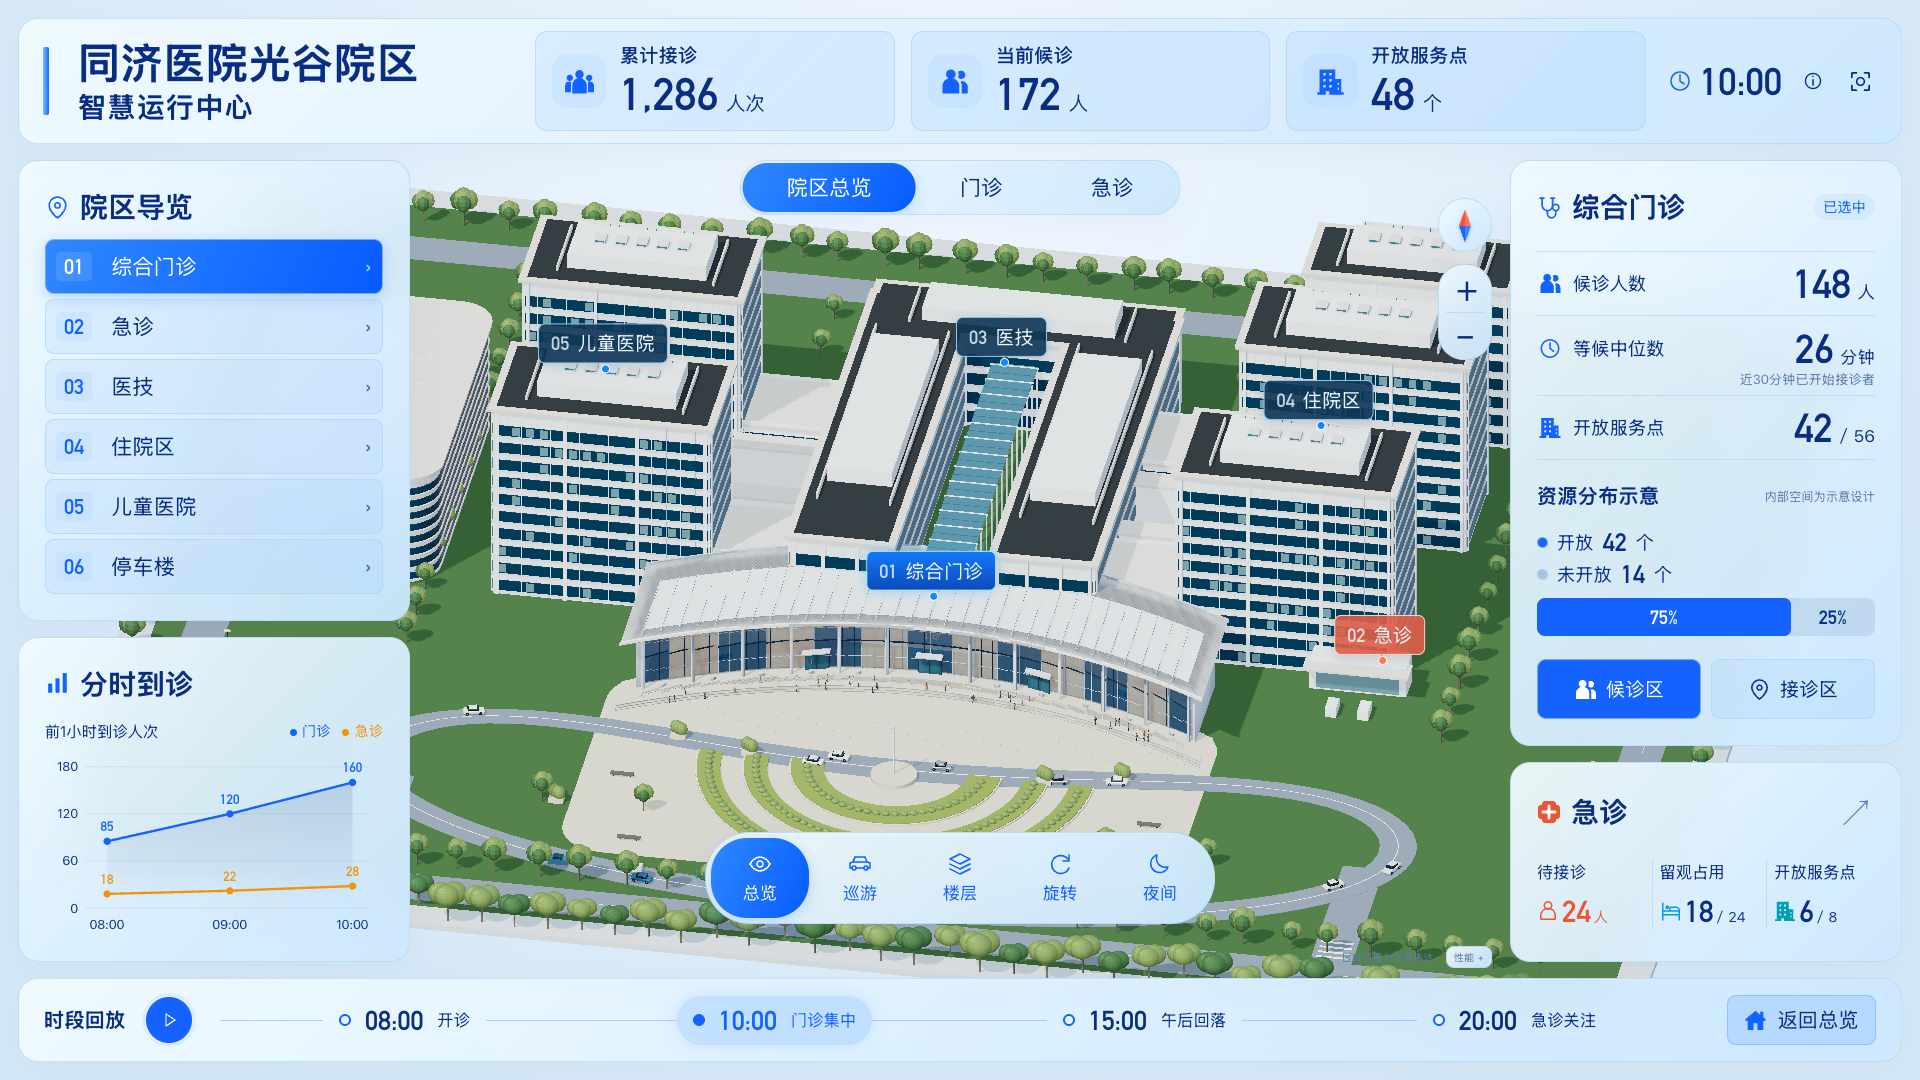
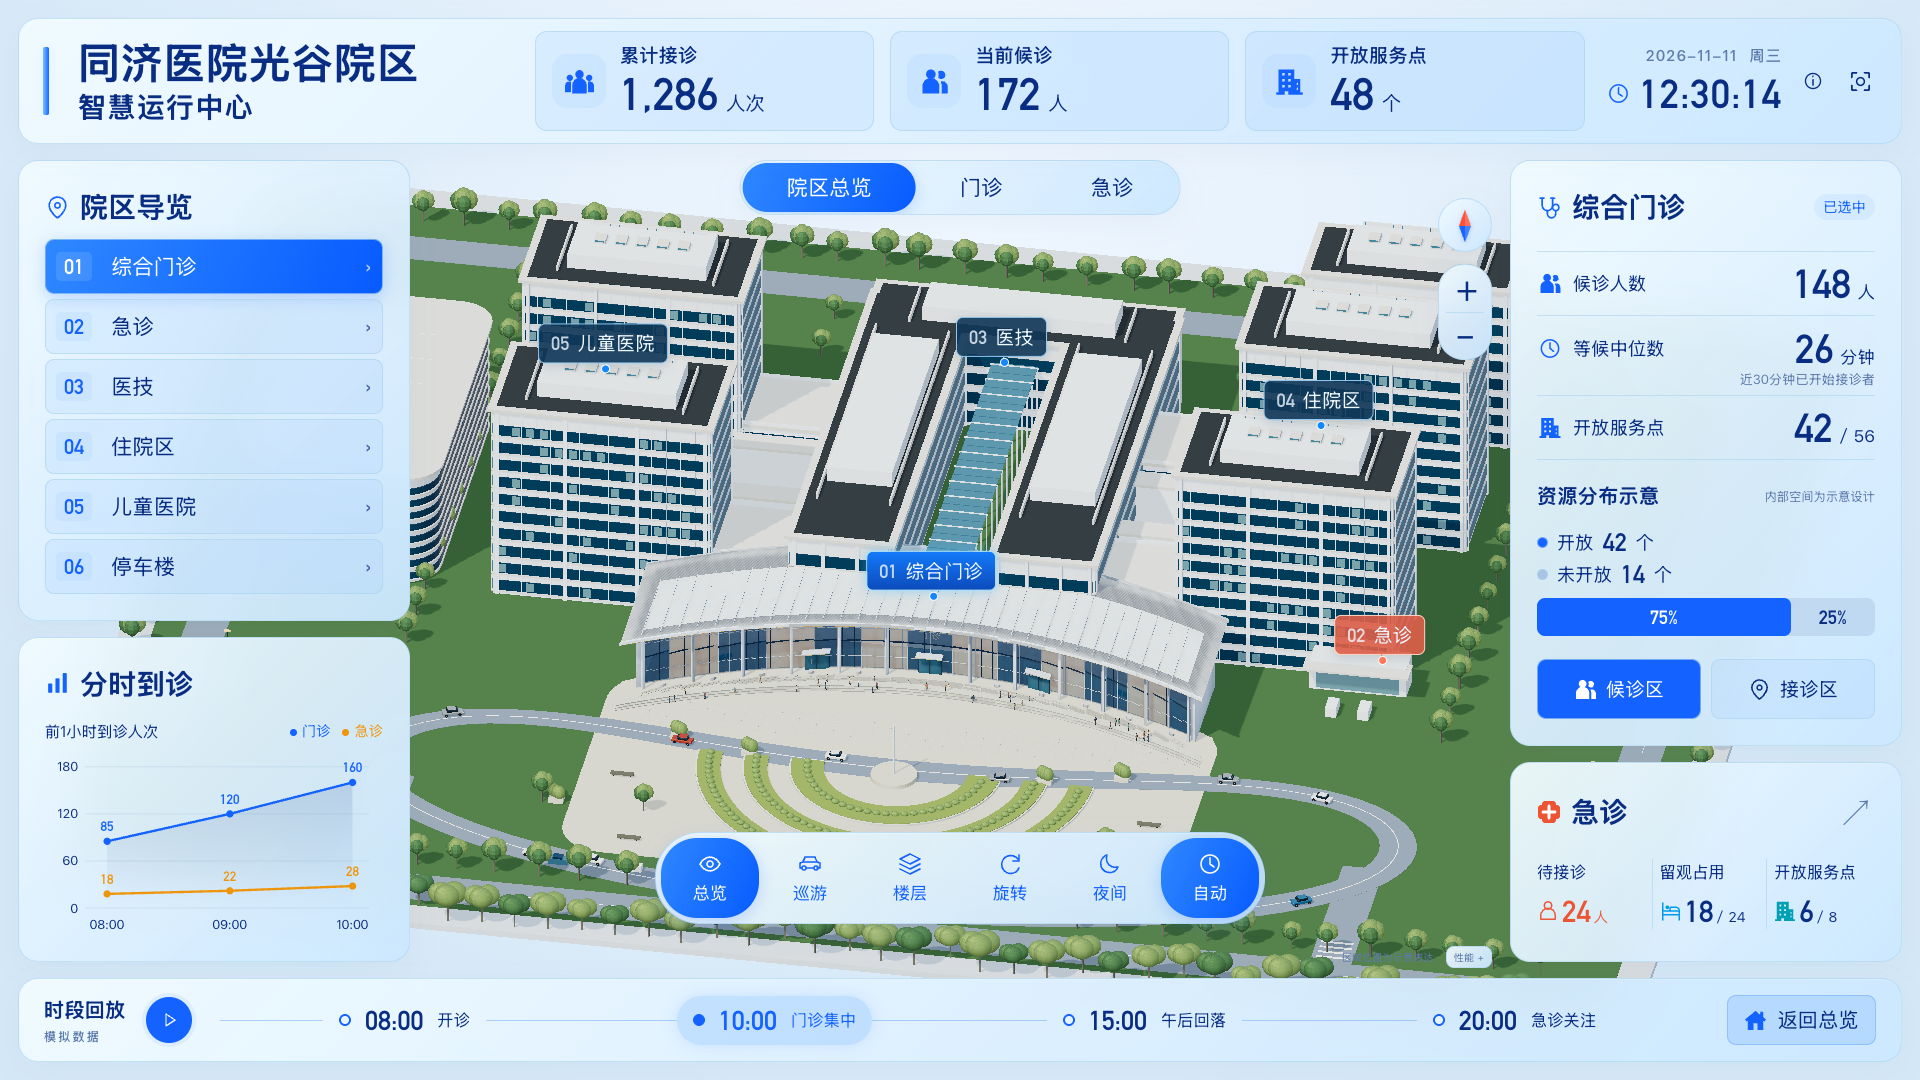
feat(ui): separate live local clock from playback time

diff --git a/src/App.tsx b/src/App.tsx
@@ -17,6 +17,7 @@ import {
   type RegionId,
 } from './data/model';
 import { Icon } from './components/Icon';
+import { LocalClock } from './components/LocalClock';
 import { Trend } from './components/Trend';
 import { AnimatedNumber } from './components/AnimatedNumber';
 
@@ -231,12 +232,7 @@ export default function App() {
             ))}
           </div>
           <div className="header-utilities">
-            <span className="clock">
-              <Icon name="clock" size={24} />
-              <strong data-testid="active-time" title="当前模拟回放时段">
-                {frame.time}
-              </strong>
-            </span>
+            <LocalClock />
             <button aria-label="项目说明" title="项目说明" onClick={() => setShowInfo(true)}>
               <Icon name="info" size={20} />
             </button>
@@ -628,7 +624,12 @@ export default function App() {
 
         <footer className="playback glass">
           <div className="playback-label">
-            时段回放
+            <div className="playback-title">
+              <span>时段回放</span>
+              <small role="status">
+                {playing ? '回放中' : lightMode === 'replay' ? '回放预览' : '模拟数据'}
+              </small>
+            </div>
             <button
               aria-label={playing ? '暂停回放' : '播放回放'}
               className="play-button"
@@ -655,7 +656,7 @@ export default function App() {
               >
                 <span className="period-label">
                   <i />
-                  <strong>{p.hour}</strong>
+                  <strong data-testid={i === period ? 'active-time' : undefined}>{p.hour}</strong>
                   <span>{p.name}</span>
                 </span>
               </button>

diff --git a/src/components/LocalClock.tsx b/src/components/LocalClock.tsx
@@ -1,0 +1,37 @@
+import { useEffect, useState } from 'react';
+import { Icon } from './Icon';
+
+const weekdays = ['周日', '周一', '周二', '周三', '周四', '周五', '周六'];
+const pad = (value: number) => String(value).padStart(2, '0');
+
+// 时钟独立更新，避免每秒重新渲染三维场景和业务面板。
+export function LocalClock() {
+  const [now, setNow] = useState(() => new Date());
+  useEffect(() => {
+    const update = () => setNow(new Date());
+    const timer = window.setInterval(() => {
+      if (!document.hidden) update();
+    }, 1000);
+    window.addEventListener('focus', update);
+    document.addEventListener('visibilitychange', update);
+    return () => {
+      window.clearInterval(timer);
+      window.removeEventListener('focus', update);
+      document.removeEventListener('visibilitychange', update);
+    };
+  }, []);
+  return (
+    <time className="clock" dateTime={now.toISOString()} title="设备本地时间，与模拟回放时段独立">
+      <span className="clock-date" data-testid="local-date">
+        {now.getFullYear()}-{pad(now.getMonth() + 1)}-{pad(now.getDate())}
+        <span>{weekdays[now.getDay()]}</span>
+      </span>
+      <span className="clock-time">
+        <Icon name="clock" size={23} />
+        <strong data-testid="local-time">
+          {pad(now.getHours())}:{pad(now.getMinutes())}:{pad(now.getSeconds())}
+        </strong>
+      </span>
+    </time>
+  );
+}

diff --git a/src/styles.css b/src/styles.css
@@ -216,17 +216,34 @@ button:hover {
 }
 .clock {
   display: flex;
-  align-items: center;
-  gap: 8px;
+  flex-direction: column;
+  align-items: flex-end;
+  gap: 4px;
   white-space: nowrap;
+}
+.clock-date {
+  display: flex;
+  gap: 12px;
+  font-size: 15px;
+  font-weight: 500;
+  letter-spacing: 1px;
+  color: var(--muted);
+}
+.clock-time {
+  display: flex;
+  align-items: center;
+  gap: 10px;
+  line-height: 1;
 }
 .clock svg {
   color: var(--blue);
 }
 .clock strong {
   font:
-    38px HospitalDIN,
+    40px HospitalDIN,
     sans-serif;
+  font-variant-numeric: tabular-nums;
+  letter-spacing: 1px;
 }
 
 .top-nav {
@@ -736,6 +753,17 @@ button:hover {
   font-size: 20px;
   font-weight: 600;
   white-space: nowrap;
+}
+.playback-title {
+  display: flex;
+  flex-direction: column;
+  gap: 4px;
+}
+.playback-title small {
+  font-size: 12px;
+  font-weight: 500;
+  letter-spacing: 2px;
+  color: var(--muted);
 }
 .play-button {
   width: 46px;

diff --git a/README.md b/README.md
@@ -8,7 +8,7 @@
 
 ## 最终运行效果
 
-日间与夜间总览为 2026-11-10 完成人车氛围更新后的浏览器截图，其余为空间交互与全屏适配截图。三维院区、空间选择、楼层展开与运行面板均为实际网页；指标与内部空间采用演示设定。
+日间、夜间与超宽总览为 2026-11-11 完成人车氛围、自动日夜和实时时钟后的浏览器截图，其余为空间交互与全屏适配截图。三维院区、空间选择、楼层展开与运行面板均为实际网页；指标与内部空间采用演示设定。
 
 ### 日间院区总览
 
@@ -65,7 +65,7 @@
 
 - **空间选择与数据联动**：从左侧导航或直接点击三维建筑，相机平滑过渡取景，右侧面板同步切换对应建筑的运行指标；总览、门诊、急诊、住院等具备独立观察视角。
 - **逐层下钻到服务分区**：门诊入口支持 1F / 2F 示意楼层展开。候诊区与接诊区具备各自的三维定位与高亮边界，形成“院区 → 建筑 → 楼层 → 分区”的四级空间上下文。
-- **四时段演示与日夜情境**：预设 08:00 开诊、10:00 门诊高峰、15:00 午后回落、20:00 急诊重点四个演示时段；默认按设备本地时间自动显示日夜（18:00 至次日 06:00 为夜景），每 30 秒检查并在页面恢复时同步。选择回放后数值、折线与光照按演示时段切换；支持手动日夜预览，点击“自动”恢复时间跟随。面板时钟仍表示所选模拟回放时段。
+- **四时段演示与日夜情境**：预设 08:00 开诊、10:00 门诊高峰、15:00 午后回落、20:00 急诊重点四个演示时段；默认按设备本地时间自动显示日夜（18:00 至次日 06:00 为夜景），每 30 秒检查并在页面恢复时同步。选择回放后数值、折线与光照按演示时段切换；支持手动日夜预览，点击“自动”恢复时间跟随。右上角独立显示真实本地日期、星期和秒级时钟；底部时间轴显示所选模拟回放时段，并区分回放中、回放预览与模拟数据状态。
 - **智能标签与遮挡避让**：空间标签基于正交射线检测，当标签被其他建筑阻挡时自动剔除隐藏；同一位置标签根据屏幕密度动态避让，超出安全区自动收起。
 - **全窗口适配**：以 1920 × 1080 为界面缩放基准，通过 ResizeObserver 扩展逻辑画布宽高；三维场景铺满视口，建筑保持比例，聚焦与标签共享随窗口变化的安全区。支持 16:9、16:10 与超宽屏。
 - **多模式运镜与观察工具**：提供院区总览复位、自动巡游、连续旋转、楼层展开、指南针与步进缩放。
